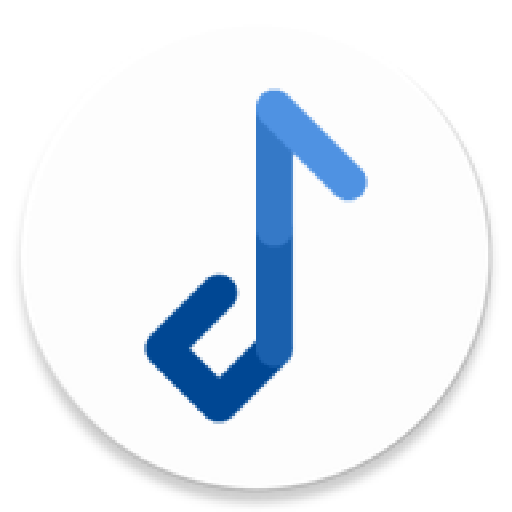
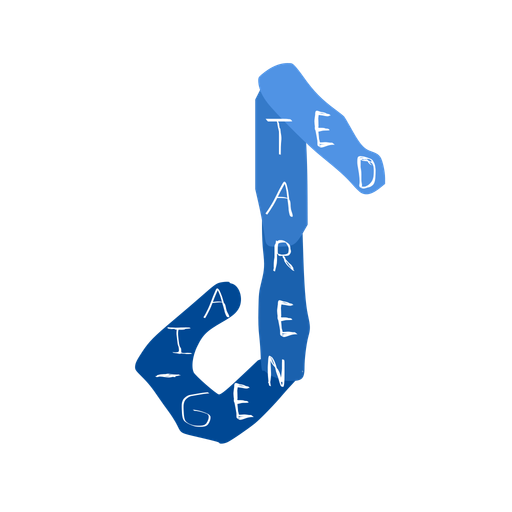
Store settings, covers and playlists in their XDG places
Settings moved from auxio/settings.properties to auxio/config (the old file
is migrated), extracted covers now live in the cache directory so a launch
does not re-read every tag, and playlists are read from ~/auxio/playlists as
well as from next to the music. The logo is replaced with the new artwork in
every place it appeared: the AppImage icon, the window icon, the README and
Fastlane images, and the Android launcher icon.

🤖 Generated with Codebuff

diff --git a/linux/src/main/kotlin/org/oxycblt/auxio/linux/Storage.kt b/linux/src/main/kotlin/org/oxycblt/auxio/linux/Storage.kt
@@ -1,0 +1,77 @@
+/*
+ * Copyright (c) 2026 Auxio Project
+ * Storage.kt is part of Auxio.
+ *
+ * This program is free software: you can redistribute it and/or modify
+ * it under the terms of the GNU General Public License as published by
+ * the Free Software Foundation, either version 3 of the License, or
+ * (at your option) any later version.
+ *
+ * This program is distributed in the hope that it will be useful,
+ * but WITHOUT ANY WARRANTY; without even the implied warranty of
+ * MERCHANTABILITY or FITNESS FOR A PARTICULAR PURPOSE.  See the
+ * GNU General Public License for more details.
+ *
+ * You should have received a copy of the GNU General Public License
+ * along with this program.  If not, see <https://www.gnu.org/licenses/>.
+ */
+ 
+package org.oxycblt.auxio.linux
+
+import java.nio.file.Files
+import java.nio.file.Path
+import kotlin.io.path.Path
+
+/**
+ * Where Auxio keeps its own files.
+ *
+ * The XDG base directory spec covers settings and cache: configuration is small and worth keeping,
+ * artwork can always be extracted again, so it belongs in the cache where it is free to be cleared.
+ * Playlists are the exception, because they are files people edit and share by hand; they live in
+ * `~/auxio/playlists`, which is also where Auxio's own exports end up on Android.
+ */
+object Storage {
+    private const val APP_DIR = "auxio"
+
+    /** Settings, one `key=value` per line. */
+    val configFile: Path by lazy { configDir.resolve("config") }
+
+    private val configDir: Path by lazy { xdg("XDG_CONFIG_HOME", ".config").resolve(APP_DIR) }
+
+    /** Where the pre-XDG-named settings file lived, before it was moved to [configFile]. */
+    private val legacyConfigFile: Path by lazy { configDir.resolve("settings.properties") }
+
+    val cacheDir: Path by lazy { xdg("XDG_CACHE_HOME", ".cache").resolve(APP_DIR) }
+
+    /** Covers pulled out of tags or folders, so a rescan does not parse every file again. */
+    val artworkCacheDir: Path by lazy { cacheDir.resolve("artwork") }
+
+    /** `.m3u`/`.m3u8` files, in addition to any found next to the music itself. */
+    val playlistDir: Path by lazy { home.resolve(APP_DIR).resolve("playlists") }
+
+    private val home: Path
+        get() = Path(System.getProperty("user.home") ?: ".").toAbsolutePath()
+
+    private fun xdg(variable: String, fallback: String): Path =
+        System.getenv(variable)?.takeIf { it.isNotBlank() }?.let { Path(it) }
+            ?: home.resolve(fallback)
+
+    /** Creates the directories Auxio writes to, so they exist to drop playlists into. */
+    fun ensureDirectories() {
+        runCatching {
+            Files.createDirectories(configDir)
+            Files.createDirectories(artworkCacheDir)
+            Files.createDirectories(playlistDir)
+        }
+    }
+
+    /** Moves `auxio/settings.properties` to `auxio/config` once, keeping existing preferences. */
+    fun migrateLegacyConfig() {
+        if (Files.exists(configFile) || !Files.exists(legacyConfigFile)) return
+
+        runCatching {
+            Files.createDirectories(configDir)
+            Files.move(legacyConfigFile, configFile)
+        }
+    }
+}

diff --git a/linux/src/main/kotlin/org/oxycblt/auxio/linux/music/ArtworkStore.kt b/linux/src/main/kotlin/org/oxycblt/auxio/linux/music/ArtworkStore.kt
@@ -1,0 +1,80 @@
+/*
+ * Copyright (c) 2026 Auxio Project
+ * ArtworkStore.kt is part of Auxio.
+ *
+ * This program is free software: you can redistribute it and/or modify
+ * it under the terms of the GNU General Public License as published by
+ * the Free Software Foundation, either version 3 of the License, or
+ * (at your option) any later version.
+ *
+ * This program is distributed in the hope that it will be useful,
+ * but WITHOUT ANY WARRANTY; without even the implied warranty of
+ * MERCHANTABILITY or FITNESS FOR A PARTICULAR PURPOSE.  See the
+ * GNU General Public License for more details.
+ *
+ * You should have received a copy of the GNU General Public License
+ * along with this program.  If not, see <https://www.gnu.org/licenses/>.
+ */
+ 
+package org.oxycblt.auxio.linux.music
+
+import java.nio.file.Files
+import java.nio.file.Path
+import java.security.MessageDigest
+import kotlin.io.path.absolute
+import org.oxycblt.auxio.linux.Storage
+
+/**
+ * Cover art on disk, so covers are extracted from their tags once rather than on every launch.
+ *
+ * Only the picture bytes are cached: decoding is cheap and the decoded bitmap would be an order of
+ * magnitude larger. The key includes the file's size and modification time, so editing a file's
+ * tags misses the old entry instead of showing the old cover.
+ */
+object ArtworkStore {
+    private const val NO_ARTWORK_SUFFIX = ".none"
+
+    fun bytes(track: Track): ByteArray? = bytesFor(track.path)
+
+    fun bytesFor(path: Path): ByteArray? {
+        val key = key(path) ?: return Artwork.bytesFor(path)
+        val cacheDir = Storage.artworkCacheDir
+        val cached = cacheDir.resolve("$key.art")
+
+        if (Files.exists(cached)) {
+            val bytes = runCatching { Files.readAllBytes(cached) }.getOrNull()
+            if (bytes != null) return bytes
+        }
+
+        // Covers are commonly missing, and looking for one costs a taglib parse per file.
+        if (Files.exists(cacheDir.resolve(key + NO_ARTWORK_SUFFIX))) return null
+
+        val found = Artwork.bytesFor(path)
+        write(cacheDir, key, found)
+        return found
+    }
+
+    private fun write(cacheDir: Path, key: String, bytes: ByteArray?) {
+        runCatching {
+            Files.createDirectories(cacheDir)
+            if (bytes == null) {
+                Files.createFile(cacheDir.resolve(key + NO_ARTWORK_SUFFIX))
+            } else {
+                Files.write(cacheDir.resolve("$key.art"), bytes)
+            }
+        }
+    }
+
+    /** Null when the file is gone, in which case there is nothing worth caching. */
+    private fun key(path: Path): String? {
+        val absolute = path.absolute()
+        if (!Files.isRegularFile(absolute)) return null
+
+        val size = runCatching { Files.size(absolute) }.getOrDefault(0L)
+        val modified =
+            runCatching { Files.getLastModifiedTime(absolute).toMillis() }.getOrDefault(0L)
+        val digest =
+            MessageDigest.getInstance("SHA-256").digest("$absolute|$size|$modified".toByteArray())
+        return digest.joinToString("") { "%02x".format(it) }
+    }
+}

diff --git a/linux/src/main/kotlin/org/oxycblt/auxio/linux/Main.kt b/linux/src/main/kotlin/org/oxycblt/auxio/linux/Main.kt
@@ -18,6 +18,9 @@
  
 package org.oxycblt.auxio.linux
 
+import androidx.compose.ui.graphics.painter.BitmapPainter
+import androidx.compose.ui.graphics.painter.Painter
+import androidx.compose.ui.res.loadImageBitmap
 import androidx.compose.ui.unit.dp
 import androidx.compose.ui.window.Window
 import androidx.compose.ui.window.application
@@ -37,6 +40,7 @@ import org.oxycblt.auxio.linux.ui.AuxioApp
 fun main(args: Array<String>) {
     val roots = args.map { Path(it) }.filter { it.exists() }.ifEmpty { listOf(defaultMusicDir()) }
 
+    Storage.ensureDirectories()
     val library = LibraryScanner.scan(roots)
 
     val player =
@@ -54,6 +58,7 @@ fun main(args: Array<String>) {
                 exitApplication()
             },
             title = "Auxio",
+            icon = windowIcon(),
             state = rememberWindowState(width = 1100.dp, height = 720.dp),
         ) {
             AuxioApp(
@@ -65,6 +70,17 @@ fun main(args: Array<String>) {
         }
     }
 }
+
+/** The launcher icon, from the jar, so the window and taskbar match the AppImage. */
+private fun windowIcon(): Painter? =
+    runCatching {
+            BitmapPainter(
+                loadImageBitmap(
+                    Settings::class.java.getResourceAsStream("/logo.png") ?: return null
+                )
+            )
+        }
+        .getOrNull()
 
 private fun defaultMusicDir(): Path {
     val home = System.getProperty("user.home")

diff --git a/linux/src/main/kotlin/org/oxycblt/auxio/linux/music/Playlists.kt b/linux/src/main/kotlin/org/oxycblt/auxio/linux/music/Playlists.kt
@@ -24,6 +24,7 @@ import kotlin.io.path.extension
 import kotlin.io.path.isRegularFile
 import kotlin.io.path.nameWithoutExtension
 import kotlin.streams.asSequence
+import org.oxycblt.auxio.linux.Storage
 
 /**
  * A playlist read from an `.m3u`/`.m3u8` file.
@@ -37,13 +38,17 @@ data class Playlist(val name: String, val tracks: List<Track>)
 object Playlists {
     private val EXTENSIONS = setOf("m3u", "m3u8")
 
-    /** Playlists found under [roots], with entries matched against the scanned [songs]. */
+    /**
+     * Playlists found under [roots] or in `~/auxio/playlists`, with entries matched against the
+     * scanned [songs].
+     */
     fun load(roots: List<Path>, songs: List<Track>): List<Playlist> {
         if (songs.isEmpty()) return emptyList()
 
         val byPath = songs.associateBy { it.path.toAbsolutePath().normalize() }
 
-        return roots
+        return (roots + Storage.playlistDir)
+            .distinct()
             .filter { Files.isDirectory(it) }
             .flatMap { root -> files(root) }
             .sortedBy { it.fileName.toString().lowercase() }

diff --git a/linux/src/main/kotlin/org/oxycblt/auxio/linux/Settings.kt b/linux/src/main/kotlin/org/oxycblt/auxio/linux/Settings.kt
@@ -21,7 +21,6 @@ package org.oxycblt.auxio.linux
 import java.nio.file.Files
 import java.nio.file.Path
 import java.util.Properties
-import kotlin.io.path.Path
 import org.oxycblt.auxio.linux.music.Dates
 
 /**
@@ -54,10 +53,9 @@ object Settings {
     const val DEFAULT_COLLAGE_SEED = "auxio"
 
     private val file: Path by lazy {
-        val base =
-            System.getenv("XDG_CONFIG_HOME")?.takeIf { it.isNotBlank() }?.let { Path(it) }
-                ?: Path(System.getProperty("user.home"), ".config")
-        base.resolve("auxio/settings.properties")
+        // Renames the pre-0.7 settings file once, so preferences survive the move to `config`.
+        Storage.migrateLegacyConfig()
+        Storage.configFile
     }
 
     fun separators(): String = properties().getProperty(SEPARATORS_KEY) ?: DEFAULT_SEPARATORS

diff --git a/linux/src/main/kotlin/org/oxycblt/auxio/linux/ui/App.kt b/linux/src/main/kotlin/org/oxycblt/auxio/linux/ui/App.kt
@@ -85,7 +85,7 @@ import kotlinx.coroutines.withContext
 import org.oxycblt.auxio.linux.Settings
 import org.oxycblt.auxio.linux.music.Album
 import org.oxycblt.auxio.linux.music.Artist
-import org.oxycblt.auxio.linux.music.Artwork
+import org.oxycblt.auxio.linux.music.ArtworkStore
 import org.oxycblt.auxio.linux.music.Dates
 import org.oxycblt.auxio.linux.music.Genre
 import org.oxycblt.auxio.linux.music.Library
@@ -1081,7 +1081,7 @@ private fun rememberArtwork(tracks: List<Track>): ImageBitmap? {
         val found =
             withContext(Dispatchers.IO) {
                 tracks.firstNotNullOfOrNull { track ->
-                    Artwork.bytes(track)?.let { decodeArtwork(it) }
+                    ArtworkStore.bytes(track)?.let { decodeArtwork(it) }
                 }
             }
 

diff --git a/linux/src/main/kotlin/org/oxycblt/auxio/linux/music/Artwork.kt b/linux/src/main/kotlin/org/oxycblt/auxio/linux/music/Artwork.kt
@@ -34,8 +34,9 @@ object Artwork {
 
     private val EXTENSIONS = listOf("jpg", "jpeg", "png", "webp")
 
-    fun bytes(track: Track): ByteArray? =
-        NativeTags.artwork(track.path) ?: folderCover(track.path.parent)
+    fun bytes(track: Track): ByteArray? = bytesFor(track.path)
+
+    fun bytesFor(path: Path): ByteArray? = NativeTags.artwork(path) ?: folderCover(path.parent)
 
     fun folderCover(directory: Path?): ByteArray? {
         if (directory == null || !Files.isDirectory(directory)) return null

diff --git a/linux/README.md b/linux/README.md
@@ -7,8 +7,8 @@ other's toolchain: the Android build needs the SDK and NDK, this one needs a JDK
 ## Status
 
 It scans folders, reads tags through taglib, and browses the result as **songs, albums, artists,
-genres and playlists**, each with a detail view. Playlists are `.m3u`/`.m3u8` files found next to
-your music. Playing a song fills a queue from the list you started it in,
+genres and playlists**, each with a detail view. Playlists are `.m3u`/`.m3u8` files found in
+`~/auxio/playlists` or next to your music. Playing a song fills a queue from the list you started it in,
 with previous/next, automatic advance when a track ends, **shuffle** and **repeat all / repeat
 one**. The progress bar is Material 3's expressive wavy progress indicator with a thumb, inside a
 taller touch target so it still seeks on click or drag; the wave freezes when playback pauses.
@@ -21,8 +21,8 @@ repeated names inside one tag are dropped. Album dates are read from the date ta
 format chosen in settings, defaulting to your system's short date. A settings page also offers a
 library rescan, the metadata separators used to split multi-artist tags, and a switch that sorts
 `*Song` or `(Song)` under its first letter instead of the symbol. Titles fall back to file names
-when a file carries no tags. Album artist and disc numbers are not read yet, and there are no
-playlists, MPRIS, search ranking or ReplayGain.
+when a file carries no tags. Album artist and disc numbers are not read yet, and playlists are
+read-only, with no MPRIS, search ranking or ReplayGain.
 
 ## Requirements
 
@@ -40,10 +40,25 @@ Could not start playback: libmpv was not found. Install it with your package man
 (for example `mpv-libs` or `libmpv2`).
 ```
 
+## Files
+
+Auxio keeps its own files in the usual places:
+
+| What | Where |
+| --- | --- |
+| Settings | `$XDG_CONFIG_HOME/auxio/config` (`~/.config/auxio/config`) |
+| Cover cache | `$XDG_CACHE_HOME/auxio/` (`~/.cache/auxio/`) |
+| Playlists | `~/auxio/playlists` |
+
+The cover cache holds the pictures pulled out of tags and folders, so a launch does not re-read
+every file. It is safe to delete; it is rebuilt as covers are needed. Playlists in
+`~/auxio/playlists` are read on every scan of the library, alongside any `.m3u`/`.m3u8` files next
+to your music.
+
 ## Settings
 
-Settings live in `$XDG_CONFIG_HOME/auxio/settings.properties` (defaulting to
-`~/.config/auxio/settings.properties`):
+The settings file is `$XDG_CONFIG_HOME/auxio/config` (defaulting to `~/.config/auxio/config`).
+Older builds wrote `auxio/settings.properties`; that file is moved over on the first launch:
 
 - `metadata.separators` — any artist tag containing one of those characters is split into
   separate artists, so `A; B` lists under both. Albums keep their raw tag, so compilations stay
